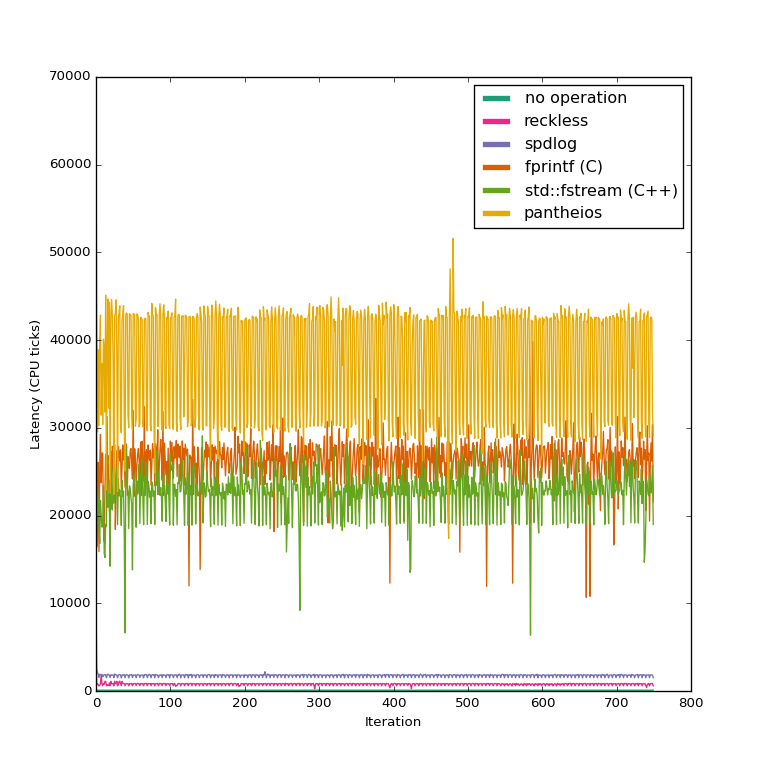
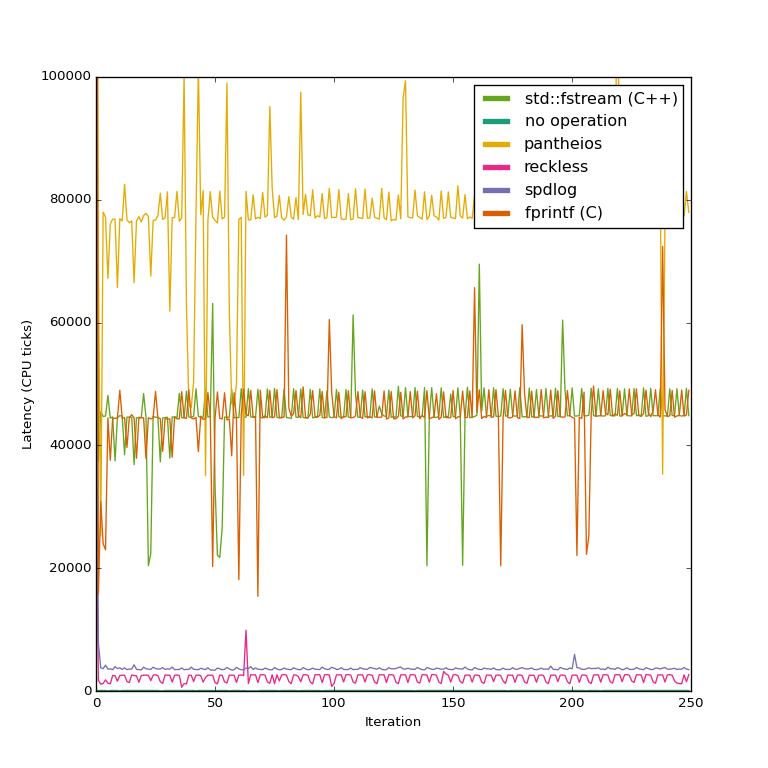
wip

diff --git a/benchmarks/periodic_calls.cpp b/benchmarks/periodic_calls.cpp
@@ -10,18 +10,16 @@ int main()
 {
     unlink("log.txt");
     performance_log::rdtscp_cpuid_clock::bind_cpu(0);
-    performance_log::logger<8192, performance_log::rdtscp_cpuid_clock, std::uint32_t> performance_log;
+    performance_log::logger<256, performance_log::rdtscp_cpuid_clock, std::uint32_t> performance_log;
 
     {
         LOG_INIT();
 
-        for(int i=0; i!=600; ++i) {
-            usleep(333);
-            for(int j=0; j!=10; ++j) {
-                auto start = performance_log.start();
-                LOG(c, i, pi);
-                performance_log.stop(start);
-            }
+        for(int i=0; i!=250; ++i) {
+            usleep(200);
+            auto start = performance_log.start();
+            LOG(c, i, pi);
+            performance_log.stop(start);
         }
         
         LOG_CLEANUP();

diff --git a/benchmarks/write_files.cpp b/benchmarks/write_files.cpp
@@ -18,12 +18,12 @@ int main()
     mkdir("data", full_access);
 
     performance_log::rdtscp_cpuid_clock::bind_cpu(0);
-    performance_log::logger<16384, performance_log::rdtscp_cpuid_clock, std::uint32_t> performance_log;
+    performance_log::logger<256, performance_log::rdtscp_cpuid_clock, std::uint32_t> performance_log;
 
     {
         LOG_INIT();
 
-        for(unsigned number=0; number!=1000u; ++number) {
+        for(unsigned number=0; number!=250u; ++number) {
             std::ostringstream ostr;
             ostr << "data/" << number;
             std::ofstream ofs(ostr.str().c_str());

diff --git a/benchmarks/call_burst.cpp b/benchmarks/call_burst.cpp
@@ -10,12 +10,12 @@ int main()
 {
     unlink("log.txt");
     performance_log::rdtscp_cpuid_clock::bind_cpu(0);
-    performance_log::logger<16384, performance_log::rdtscp_cpuid_clock, std::uint32_t> performance_log;
+    performance_log::logger<1024, performance_log::rdtscp_cpuid_clock, std::uint32_t> performance_log;
 
     {
         LOG_INIT();
 
-        for(int i=0; i!=10000; ++i) {
+        for(int i=0; i!=500; ++i) {
             auto start = performance_log.start();
             LOG(c, i, pi);
             performance_log.stop(start);

diff --git a/benchmarks/plot.py b/benchmarks/plot.py
@@ -159,10 +159,9 @@ def plot(libs, tests, threads_list, window, top, plot_filename, width, height, d
         data = [int(x) for x in data]
         avg = float(sum(data))/len(data)
         if window is None:
-            window = get_default_window(test)
+            window = 1 #get_default_window(test)
         if window != 1:
             data = average2(window, data);
-        print("%s: max: %s average %s" % (filename, max(data), avg))
         ax.plot(data, '-', label=name, color=color, linewidth=1)
         
     for test in tests:

diff --git a/doc/performance.md b/doc/performance.md
@@ -57,13 +57,12 @@ developed according to those assumptions:
   Pointers to global objects are usually fine, and so are string literals. For
   dynamically allocated strings you should use e.g. `std::string`.
 
-Another factor that I care about is that latency should be kept at a
-predictable and stable level. If the write buffer is very large then the user
-may experience sudden hangs as the logger suddenly needs to flush large
-amounts of data to disk. The output-buffer size in reckless is configurable
-and could be set very large if desired, but the default size is 8 KiB. This is
-large enough to fit a modern disk sector (4 KiB) while still leaving some room
-to grow.
+Another factor that I care about is that latency should be kept at a stable,
+insignificant level. If the write buffer is very large then the user may
+experience sudden hangs as the logger suddenly needs to flush large amounts of
+data to disk. The output-buffer size in reckless is configurable and could be
+set very large if desired, but the default size is 8 KiB. This is large enough
+to fit a modern disk sector (4 KiB) while still leaving some room to grow.
   
 In the [benchmark made by the spdlog
 author](https://github.com/gabime/spdlog/blob/06e0b0387a27a6e77005adac87f235e744caeb87/bench/spdlog-async.cpp),
@@ -118,11 +117,6 @@ Architectures](http://www.intel.com/content/www/us/en/intelligent-systems/embedd
 by Gabriele Paoloni. To avoid problems with unsynchronized time-stamp counters
 across CPU cores, each measured thread is forced to run on a specific CPU core
 by setting the thread affinity.
-
-I have applied a moving average filter to the performance charts because noise
-would otherwise make it difficult to compare the lines. The size of the moving
-average window varies depending on the scenario. I made it just large enough to
-make the chart comprehensible.
 
 For tests that only measure total execution time, `std::chrono::steady_clock`
 is used.
